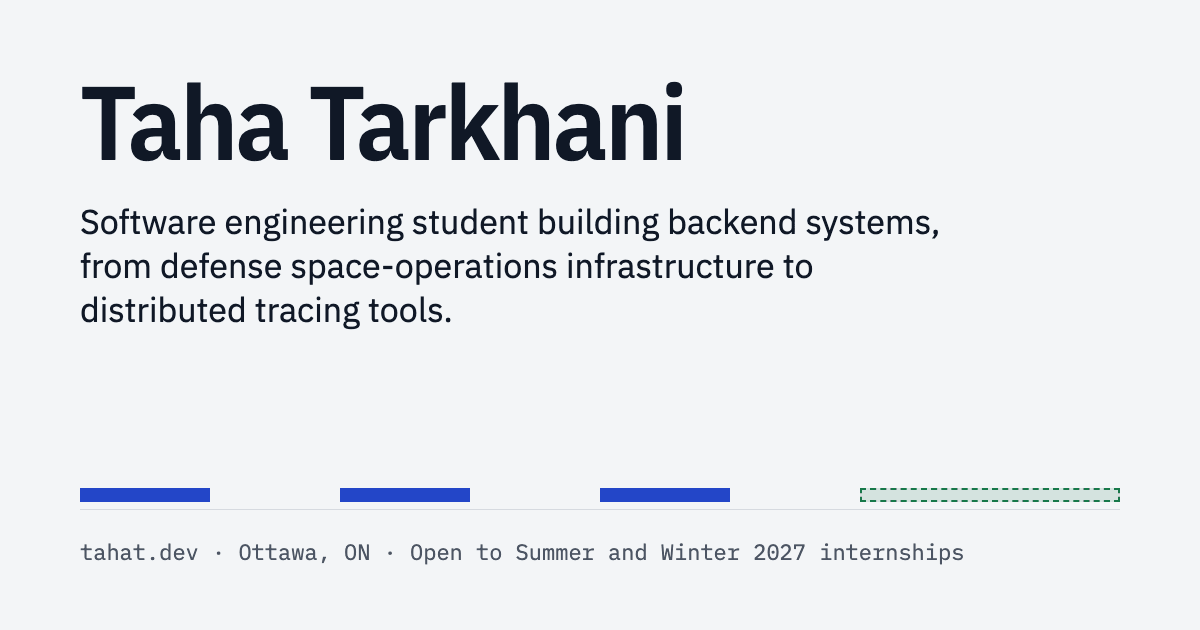
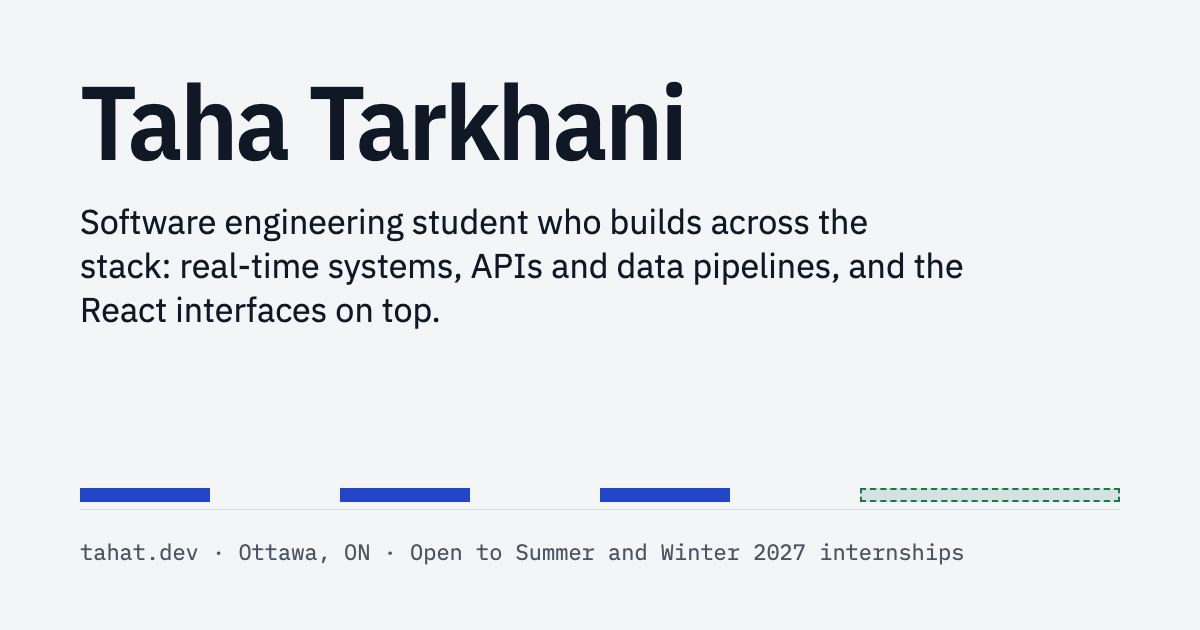
Position as a software engineer across the stack; retitle page
New title, meta/OG/Twitter text, JSON-LD jobTitle and description, hero
line, bio opener, and share image. Experience and project content unchanged.

Changed region(s): [[0.0617, 0.3317, 0.8017, 0.5429]]

diff --git a/index.html b/index.html
@@ -11,8 +11,8 @@
     } catch (e) {}
   })();
 </script>
-<title>Taha Tarkhani · Backend software engineering student, Ottawa</title>
-<meta name="description" content="Software engineering student at the University of Ottawa building backend systems: real-time telemetry, latency, tracing, and satellite tracking. Open to Summer 2027 and Winter 2027 internships and co-ops.">
+<title>Taha Tarkhani - Software Engineer</title>
+<meta name="description" content="Software engineering student at the University of Ottawa building real-time systems, APIs, data pipelines and web interfaces, from defense space-operations software to tracing tools. Based in Ottawa, ON.">
 <link rel="canonical" href="https://tahat.dev/">
 <meta name="color-scheme" content="light dark">
 <meta name="theme-color" content="#F3F5F7" media="(prefers-color-scheme: light)">
@@ -21,17 +21,17 @@
 
 <meta property="og:type" content="profile">
 <meta property="og:url" content="https://tahat.dev/">
-<meta property="og:title" content="Taha Tarkhani · Backend software engineering student">
-<meta property="og:description" content="Backend systems: real-time telemetry, latency, tracing, and satellite tracking. Open to Summer 2027 and Winter 2027 internships and co-ops.">
+<meta property="og:title" content="Taha Tarkhani - Software Engineer">
+<meta property="og:description" content="Real-time systems, APIs, data pipelines and web interfaces. Open to Summer 2027 and Winter 2027 internships and co-ops.">
 <meta property="og:image" content="https://tahat.dev/assets/og.png">
 <meta property="og:image:width" content="1200">
 <meta property="og:image:height" content="630">
-<meta property="og:image:alt" content="Taha Tarkhani, software engineering student building backend systems. Ottawa, ON.">
+<meta property="og:image:alt" content="Taha Tarkhani, software engineering student who builds across the stack. Ottawa, ON.">
 <meta property="profile:first_name" content="Taha">
 <meta property="profile:last_name" content="Tarkhani">
 <meta name="twitter:card" content="summary_large_image">
-<meta name="twitter:title" content="Taha Tarkhani · Backend software engineering student">
-<meta name="twitter:description" content="Backend systems: real-time telemetry, latency, tracing, and satellite tracking. Open to Summer 2027 and Winter 2027 internships and co-ops.">
+<meta name="twitter:title" content="Taha Tarkhani - Software Engineer">
+<meta name="twitter:description" content="Real-time systems, APIs, data pipelines and web interfaces. Open to Summer 2027 and Winter 2027 internships and co-ops.">
 <meta name="twitter:image" content="https://tahat.dev/assets/og.png">
 
 <link rel="preload" href="assets/fonts/plex-sans-var.woff2" as="font" type="font/woff2" crossorigin>
@@ -46,8 +46,8 @@
   "url": "https://tahat.dev/",
   "image": "https://tahat.dev/assets/img/portrait-720.webp",
   "email": "mailto:ttarkhani111@gmail.com",
-  "jobTitle": "Software Engineering Student",
-  "description": "Software engineering student building backend systems, from defense space-operations infrastructure to distributed tracing tools.",
+  "jobTitle": "Software Engineer",
+  "description": "Software engineering student who builds across the stack: real-time systems, APIs and data pipelines, and the React interfaces on top.",
   "address": { "@type": "PostalAddress", "addressLocality": "Ottawa", "addressRegion": "ON", "addressCountry": "CA" },
   "affiliation": { "@type": "CollegeOrUniversity", "name": "University of Ottawa" },
   "knowsAbout": ["Java", "Spring Boot", "Python", "TypeScript", "PostgreSQL", "Redis", "Docker", "Distributed tracing", "Real-time data"],
@@ -81,8 +81,8 @@
   <section class="hero wrap" id="top" aria-labelledby="name">
     <div class="hero-text">
       <h1 id="name">Taha Tarkhani</h1>
-      <p class="lede">Software engineering student building backend systems, from defense space-operations infrastructure to distributed tracing tools.</p>
-      <p class="bio">I work on real-time data, latency, tracing, and satellite tracking. Two internships at National Defence Canada, one at the National Research Council Canada. BASc Software Engineering at the University of Ottawa, graduating Dec 2027.</p>
+      <p class="lede">Software engineering student who builds across the stack: real-time systems, APIs and data pipelines, and the React interfaces on top.</p>
+      <p class="bio">My work spans Spring Boot services, PostgreSQL and Redis performance, Python data pipelines, and React/TypeScript front ends. Two internships at National Defence Canada, one at the National Research Council Canada. BASc Software Engineering at the University of Ottawa, graduating Dec 2027.</p>
       <p class="availability">Open to <strong>Summer 2027</strong> and <strong>Winter 2027</strong> software internships and co-ops in Ottawa, Toronto and the Greater Toronto Area, or the United States.</p>
       <div class="actions">
         <a class="button" href="tahatarkhaniresume.pdf" data-resume>Resume</a>

diff --git a/DESIGN_PLAN.md b/DESIGN_PLAN.md
@@ -2,8 +2,8 @@
 
 ## Point of view
 
-Taha builds the plumbing behind real-time systems: telemetry streams, caches, query
-plans, traces. The site should read like a well-made engineering tool. It should be
+Taha builds across the stack: real-time services, APIs, data pipelines, and the React
+interfaces on top. The site should read like a well-made engineering tool. It should be
 quiet, precise, and dense where density helps, and it should take its visual language from a
 trace viewer: a shared time axis, spans with durations, and log lines under each span.
 It uses one such device, carried out properly, and plain typography everywhere else.
@@ -72,9 +72,9 @@ Taha Tarkhani                         Experience  Projects  Skills   Resume  [th
 ─────────────────────────────────────────────────────────────────────────────────────
                                                                    ┌──────────┐
 Taha Tarkhani                         (condensed, huge)            │ portrait │
-Software engineering student building backend systems,             │  3:4     │
-from defense space-operations infrastructure to distributed        │          │
-tracing tools.                                                     │          │
+Software engineering student who builds across the stack:          │  3:4     │
+real-time systems, APIs and data pipelines, and the React          │          │
+interfaces on top.                                                 │          │
 Two internships at National Defence Canada ... NRC ... uOttawa.    └──────────┘
 ▌Open to Summer 2027 and Winter 2027 software internships and co-ops.
 ▌Ottawa, Toronto/GTA, or remote in Canada.
